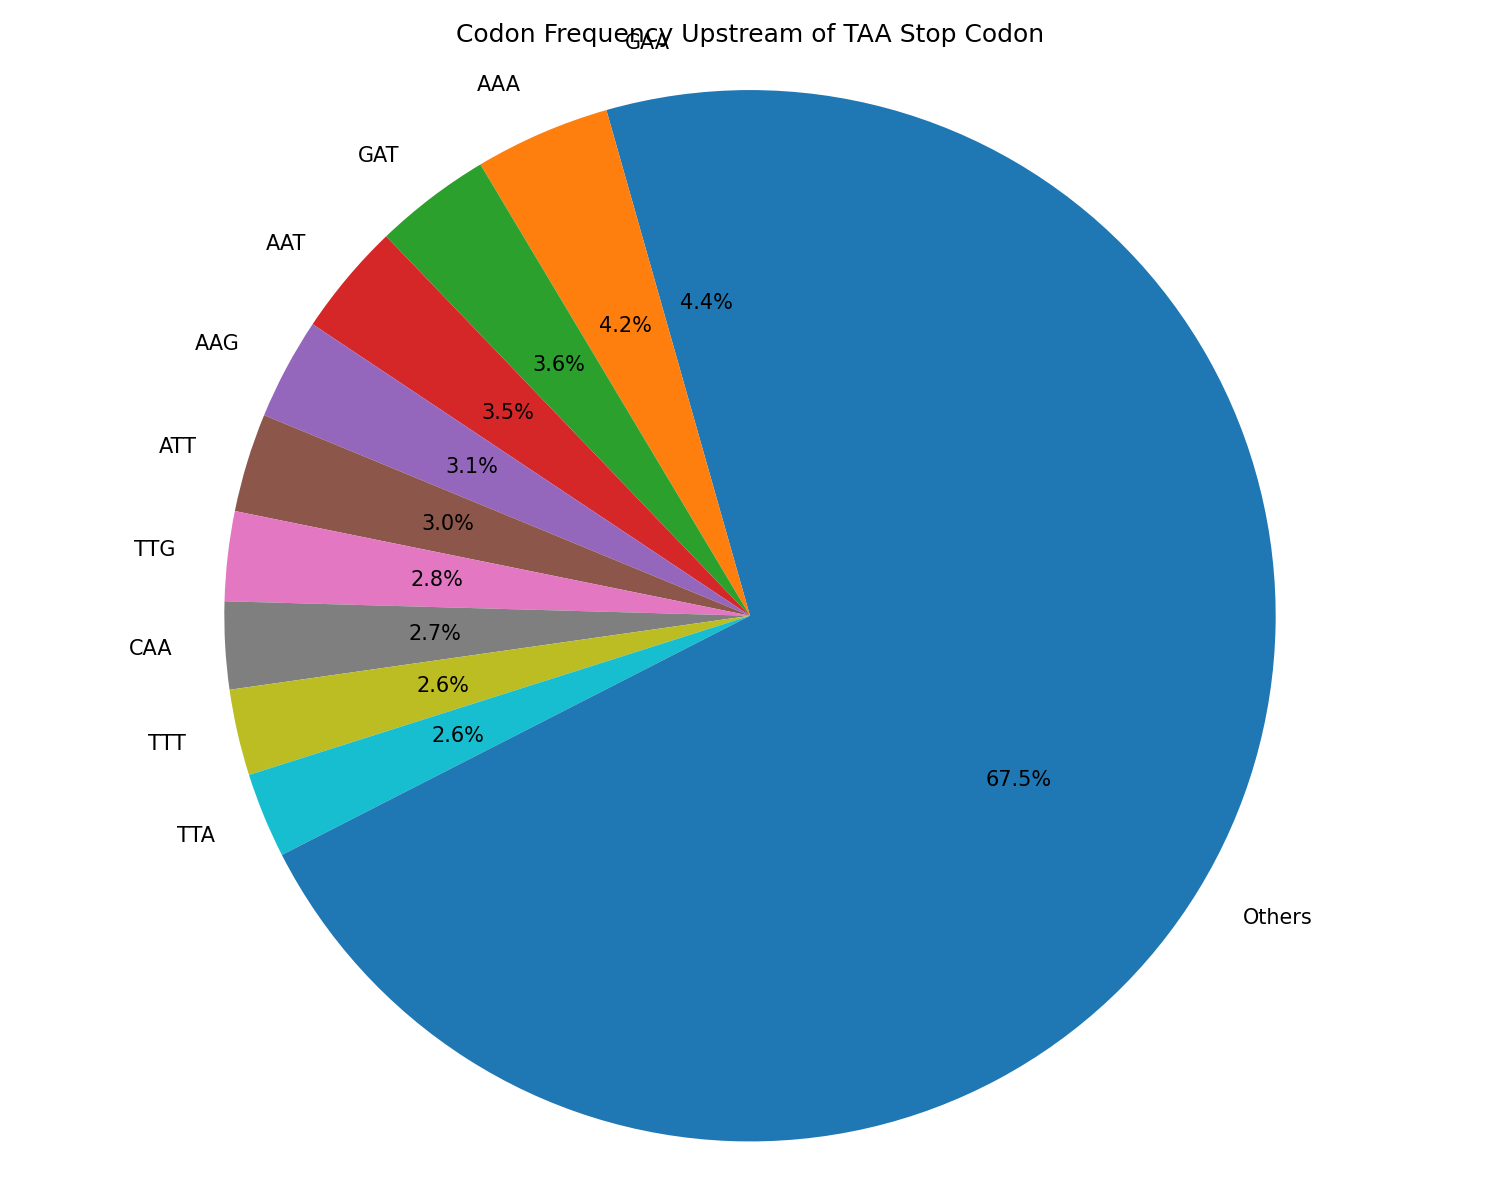
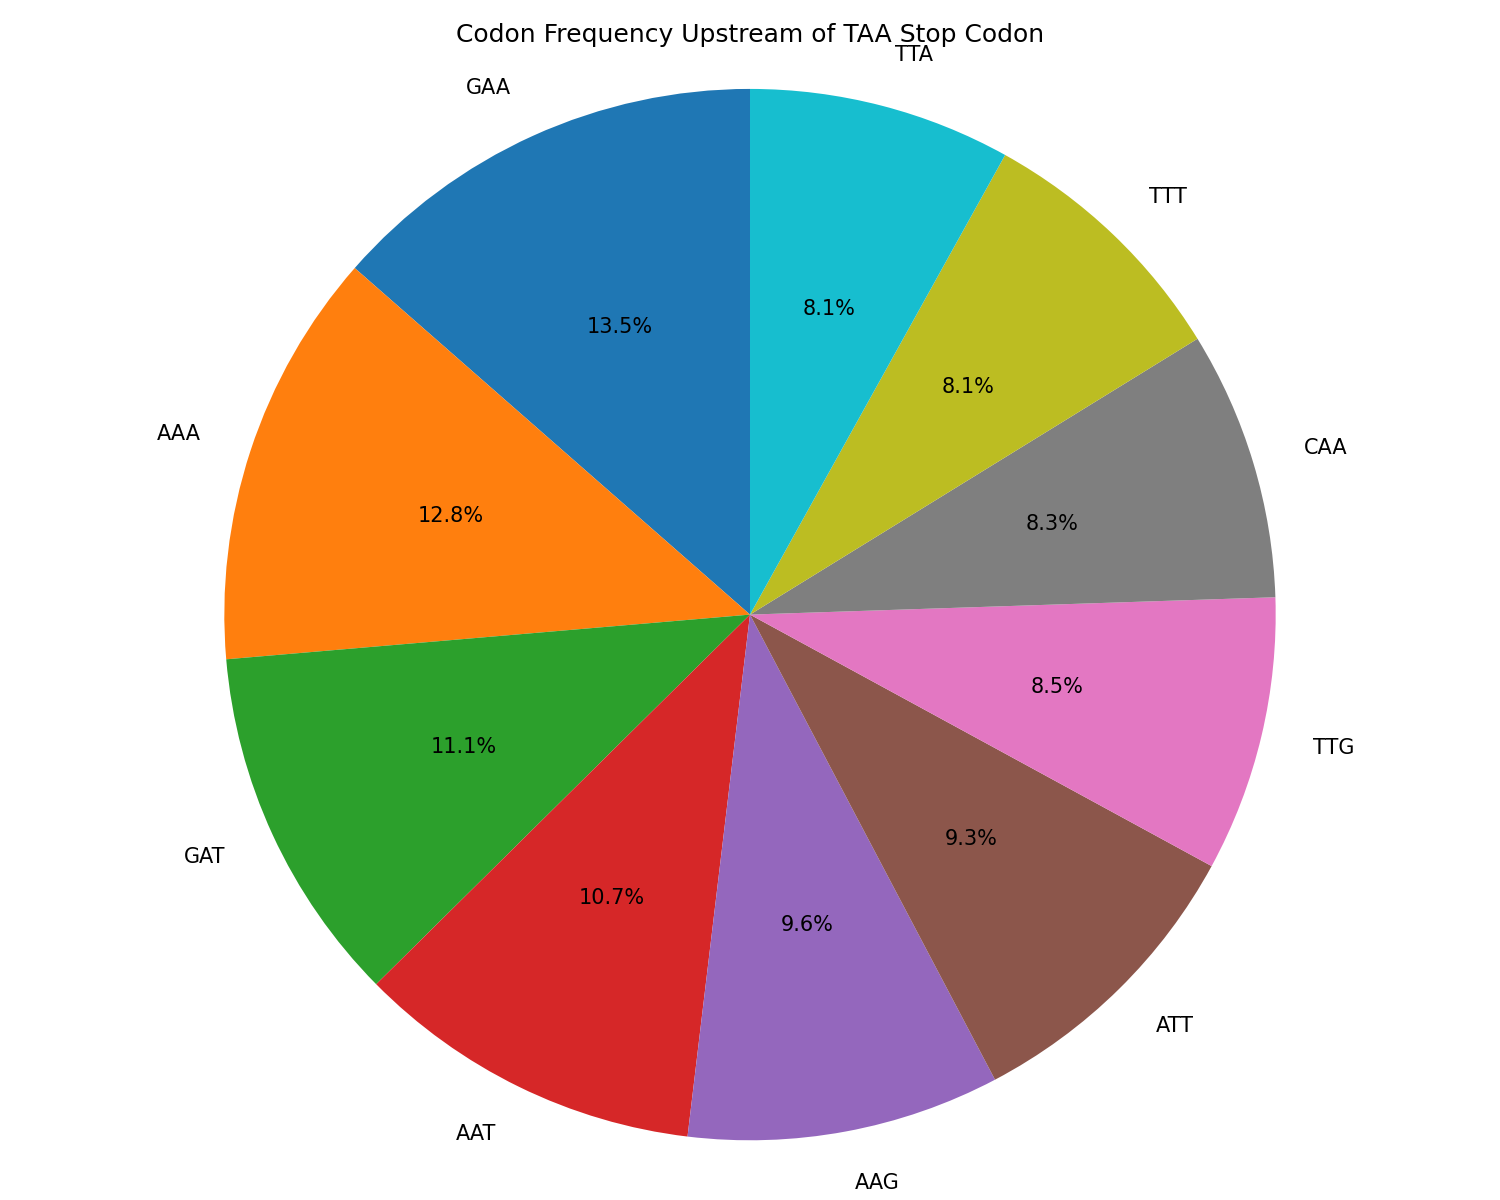
new file:   IBI1_2025-26/Practical 7/codon_frequency_TAA_full.png 	modified:   IBI1_2025-26/Practical 7/count_codons.py

diff --git a/IBI1_2025-26/Practical 7/count_codons.py b/IBI1_2025-26/Practical 7/count_codons.py
@@ -3,7 +3,7 @@ import matplotlib.pyplot as plt
 from collections import defaultdict
 
 def read_fasta(fasta_file):
-    "Read the FASTA file and return a dictionary where the keys are gene names and the values are the sequences."
+    """Read FASTA file and return a dictionary {gene_name: sequence}"""
     all_genes = {}
     for record in SeqIO.parse(fasta_file, "fasta"):
         gene_name = record.id.split()[0]
@@ -12,9 +12,9 @@ def read_fasta(fasta_file):
 
 def find_longest_orf_with_stop(seq, target_stop):
     """
-    Find the longest ORF in the sequence that ends with the specified stop codon.
-    Return: The list of codons of the longest ORF (excluding the stop codon)
-    """  
+    Find the longest ORF ending with the specified stop codon
+    Returns: list of codons in the longest ORF (excluding the stop codon)
+    """
     start_codon = "ATG"
     stop_codons = {"TAA", "TAG", "TGA"}
     longest_codons = []
@@ -26,27 +26,28 @@ def find_longest_orf_with_stop(seq, target_stop):
                 codon = seq[j:j+3]
                 if codon in stop_codons:
                     if codon == target_stop:
-                        # Find the target termination codon and update the list of the longest codons
+                        # Update longest codon list if current ORF is longer
                         if len(current_codons) > len(longest_codons):
                             longest_codons = current_codons.copy()
-                    break  # Terminate the current ORF
+                    break  # Terminate current ORF
                 current_codons.append(codon)
     
     return longest_codons
 
 def main():
-    # 1. User inputs termination codon
+    # 1. Get user input for stop codon
     while True:
         target_stop = input("Please enter a stop codon (TAA/TAG/TGA): ").strip().upper()
         if target_stop in {"TAA", "TAG", "TGA"}:
             break
         print("Invalid input! Please enter one of TAA, TAG, TGA.")
-    # 2. Read FASTA file and get all genes
+    
+    # 2. Read FASTA file (absolute path to avoid file not found error)
     fasta_file = "/Users/hyq-mac/Desktop/2026春夏学期资料/IBI/IBI1_2025-26/Practical 7/Saccharomyces_cerevisiae.R64-1-1.cdna.all.fa"
     all_genes = read_fasta(fasta_file)
     print(f"Total genes read: {len(all_genes)}")
     
-    # 3. Calculate the frequency of codons
+    # 3. Count frequency of all codons (no merging)
     codon_counts = defaultdict(int)
     total_codons = 0
     
@@ -59,24 +60,37 @@ def main():
     print(f"\nGenes containing {target_stop} stop codon: {len([c for c in codon_counts.values() if c > 0])}")
     print(f"Total codons counted: {total_codons}")
     
-    # 4. Generate pie chart (show only the top 10 most frequent codons, merge the rest as "Others")
+    # 4. Generate full codon frequency pie chart (show all 64 codons)
+    # Sort codons by frequency in descending order
     sorted_codons = sorted(codon_counts.items(), key=lambda x: x[1], reverse=True)
-    top_10 = sorted_codons[:10]
-    others_count = sum(count for _, count in sorted_codons[10:])
+    labels = [codon for codon, _ in sorted_codons]
+    sizes = [count for _, count in sorted_codons]
     
-    labels = [codon for codon, _ in top_10] + ["Others"]
-    sizes = [count for _, count in top_10] + [others_count]
+    # Optimize pie chart to avoid label overlap
+    plt.figure(figsize=(12, 10), dpi=150)
+    wedges, texts, autotexts = plt.pie(
+        sizes,
+        labels=labels,
+        autopct='%1.1f%%',
+        startangle=90,
+        labeldistance=1.05,
+        pctdistance=0.85,
+        textprops={'fontsize': 7}
+    )
     
-    plt.figure(figsize=(10, 8), dpi=150)
-    plt.pie(sizes, labels=labels, autopct='%1.1f%%', startangle=90)
-    plt.title(f"Codon Frequency Upstream of {target_stop} Stop Codon")
-    plt.axis('equal')  # Ensure that the chart is circular
+    # Adjust percentage text style
+    for autotext in autotexts:
+        autotext.set_fontsize(6)
+        autotext.set_color('white')
+    
+    plt.title(f"Full Codon Frequency Upstream of {target_stop} Stop Codon", fontsize=12, fontweight='bold')
+    plt.axis('equal')  # Ensure pie chart is circular
     plt.tight_layout()
     
-    # Save pie chart to file
-    output_file = f"codon_frequency_{target_stop}.png"
-    plt.savefig(output_file, dpi=150)
-    print(f"\nPie chart saved to: {output_file}")
+    # Save high-resolution pie chart to file
+    output_file = f"/Users/hyq-mac/Desktop/2026春夏学期资料/IBI/IBI1_2025-26/Practical 7/codon_frequency_{target_stop}_full.png"
+    plt.savefig(output_file, dpi=150, bbox_inches='tight')  # Prevent label truncation
+    print(f"\nFull codon frequency pie chart saved to: {output_file}")
     plt.show()
 
 if __name__ == "__main__":
